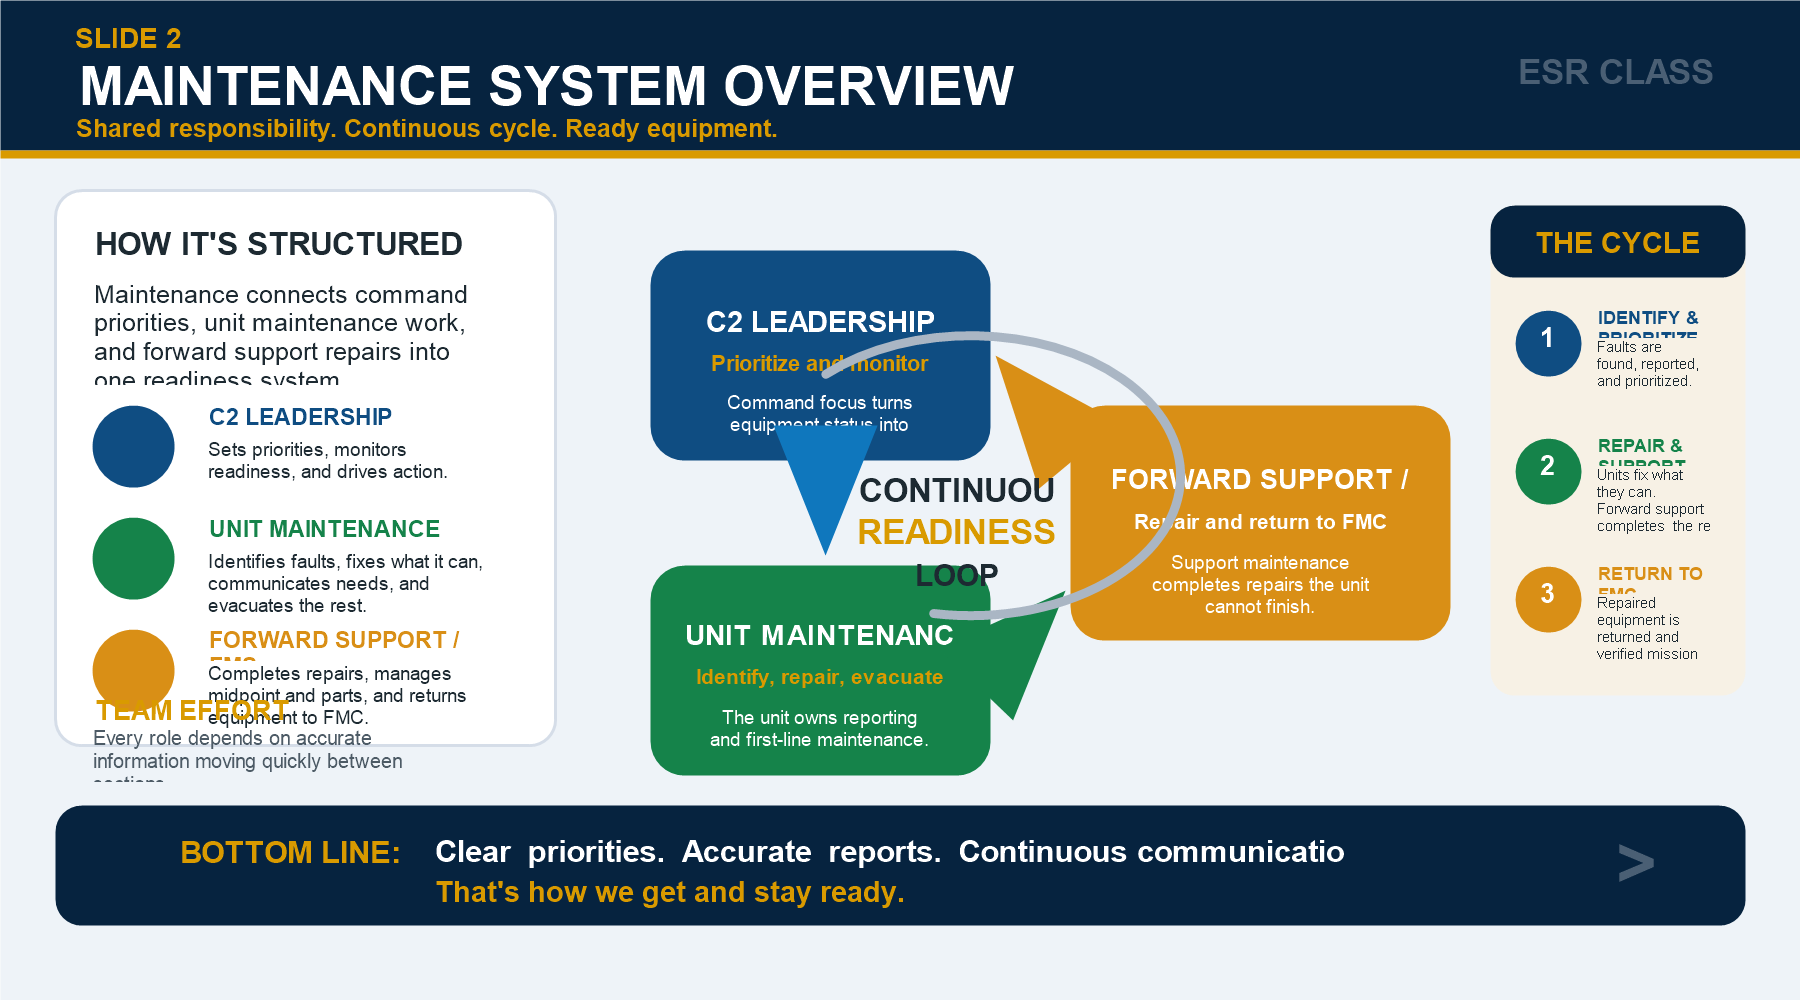
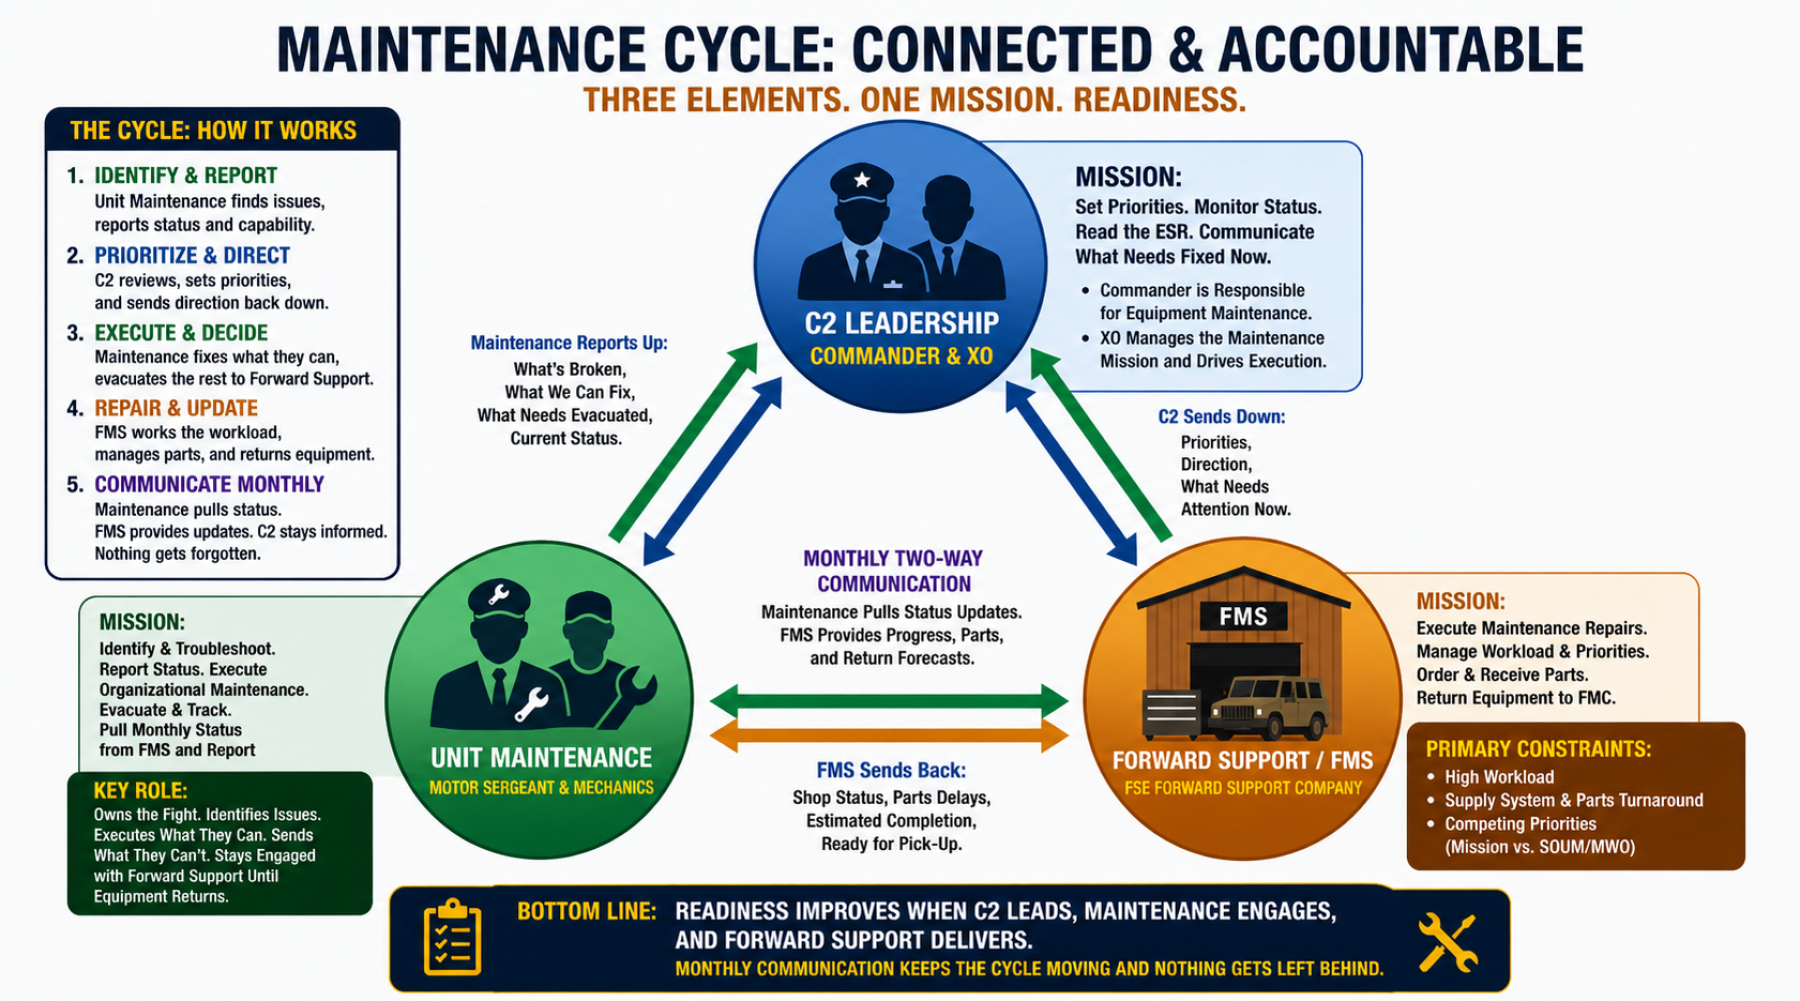
keep ESR fullscreen navigation active

diff --git a/content/esr-class/js/app.js b/content/esr-class/js/app.js
@@ -12,8 +12,12 @@ if (currentSlide) {
 const slideFigure = document.querySelector(".slide-figure");
 const slideImage = document.querySelector(".slide-image");
 const slideCopy = document.querySelector(".slide-copy");
+const fullscreenSessionKey = "esrClassFullscreen";
 
 if (slideFigure && slideImage) {
+  const previousPage = slideFigure.querySelector(".slide-arrow-left");
+  const nextPage = slideFigure.querySelector(".slide-arrow-right");
+
   const fullscreenButton = document.createElement("button");
   fullscreenButton.className = "fullscreen-toggle";
   fullscreenButton.type = "button";
@@ -31,6 +35,39 @@ if (slideFigure && slideImage) {
   closeButton.className = "fullscreen-close";
   closeButton.type = "button";
   closeButton.setAttribute("aria-label", "Close full screen image");
+
+  const createFullscreenArrow = (sourceLink, direction) => {
+    if (!sourceLink) {
+      return null;
+    }
+
+    const arrow = document.createElement("a");
+    arrow.className = `fullscreen-arrow fullscreen-arrow-${direction}`;
+    arrow.href = sourceLink.href;
+    arrow.setAttribute(
+      "aria-label",
+      direction === "left" ? "Previous page" : "Next page"
+    );
+
+    return arrow;
+  };
+
+  const setFullscreenSession = (isActive) => {
+    if (isActive) {
+      sessionStorage.setItem(fullscreenSessionKey, "true");
+    } else {
+      sessionStorage.removeItem(fullscreenSessionKey);
+    }
+  };
+
+  const navigateInFullscreen = (event) => {
+    event.preventDefault();
+    setFullscreenSession(true);
+    window.location.href = event.currentTarget.href;
+  };
+
+  const previousArrow = createFullscreenArrow(previousPage, "left");
+  const nextArrow = createFullscreenArrow(nextPage, "right");
 
   const fullImage = document.createElement("img");
   fullImage.className = "fullscreen-image";
@@ -51,33 +88,56 @@ if (slideFigure && slideImage) {
   }
 
   fullscreenContent.append(imagePane, copyPane);
-  overlay.append(closeButton, fullscreenContent);
+  overlay.append(closeButton);
+  if (previousArrow) {
+    overlay.appendChild(previousArrow);
+  }
+  if (nextArrow) {
+    overlay.appendChild(nextArrow);
+  }
+  overlay.appendChild(fullscreenContent);
   document.body.appendChild(overlay);
 
   const closeFullscreen = () => {
+    setFullscreenSession(false);
     overlay.hidden = true;
     document.body.classList.remove("is-fullscreen-open");
     fullscreenButton.focus();
   };
 
-  fullscreenButton.addEventListener("click", () => {
+  const openFullscreen = () => {
+    setFullscreenSession(true);
     fullImage.src = slideImage.currentSrc || slideImage.src;
     overlay.hidden = false;
     document.body.classList.add("is-fullscreen-open");
     closeButton.focus();
-  });
+  };
+
+  fullscreenButton.addEventListener("click", openFullscreen);
 
   closeButton.addEventListener("click", closeFullscreen);
 
-  overlay.addEventListener("click", (event) => {
-    if (event.target === overlay) {
-      closeFullscreen();
+  if (previousArrow) {
+    previousArrow.addEventListener("click", navigateInFullscreen);
+  }
+
+  if (nextArrow) {
+    nextArrow.addEventListener("click", navigateInFullscreen);
+  }
+
+  document.addEventListener("keydown", (event) => {
+    if (overlay.hidden) {
+      return;
+    }
+
+    if (event.key === "ArrowLeft" && previousArrow) {
+      previousArrow.click();
+    } else if (event.key === "ArrowRight" && nextArrow) {
+      nextArrow.click();
     }
   });
 
-  document.addEventListener("keydown", (event) => {
-    if (event.key === "Escape" && !overlay.hidden) {
-      closeFullscreen();
-    }
-  });
+  if (sessionStorage.getItem(fullscreenSessionKey) === "true") {
+    openFullscreen();
+  }
 }

diff --git a/content/esr-class/css/styles.css b/content/esr-class/css/styles.css
@@ -326,6 +326,55 @@ h1 {
   transform: translate(-50%, -50%) rotate(-45deg);
 }
 
+.fullscreen-arrow {
+  position: fixed;
+  top: 50%;
+  z-index: 1001;
+  display: grid;
+  place-items: center;
+  width: 3.5rem;
+  height: 3.5rem;
+  border: 2px solid rgba(255, 255, 255, 0.9);
+  border-radius: 50%;
+  background: rgba(18, 53, 91, 0.88);
+  box-shadow: 0 14px 28px rgba(0, 0, 0, 0.28);
+  transform: translateY(-50%);
+  transition: background-color 160ms ease, transform 160ms ease;
+}
+
+.fullscreen-arrow:hover,
+.fullscreen-arrow:focus {
+  background: var(--color-accent);
+  transform: translateY(-50%) scale(1.06);
+}
+
+.fullscreen-arrow::before {
+  content: "";
+  display: block;
+  width: 0;
+  height: 0;
+  border-top: 0.58rem solid transparent;
+  border-bottom: 0.58rem solid transparent;
+}
+
+.fullscreen-arrow-left {
+  left: 1.25rem;
+}
+
+.fullscreen-arrow-left::before {
+  margin-right: 0.18rem;
+  border-right: 0.85rem solid #ffffff;
+}
+
+.fullscreen-arrow-right {
+  right: 1.25rem;
+}
+
+.fullscreen-arrow-right::before {
+  margin-left: 0.18rem;
+  border-left: 0.85rem solid #ffffff;
+}
+
 .slide-copy {
   display: grid;
   grid-column: 2;
@@ -412,6 +461,19 @@ h1 {
 
   .fullscreen-copy {
     max-height: 35vh;
+  }
+
+  .fullscreen-arrow {
+    width: 2.75rem;
+    height: 2.75rem;
+  }
+
+  .fullscreen-arrow-left {
+    left: 0.5rem;
+  }
+
+  .fullscreen-arrow-right {
+    right: 0.5rem;
   }
 
   .slide-shell {